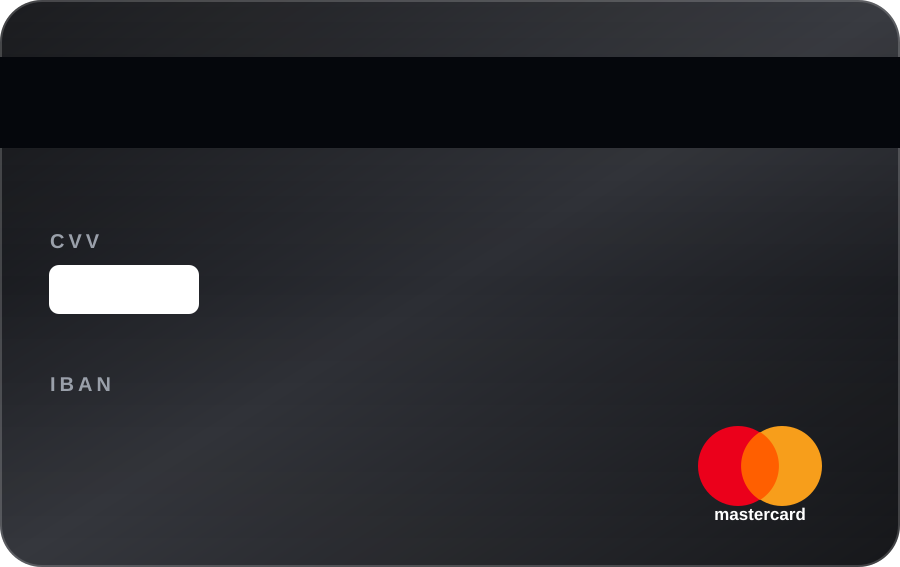
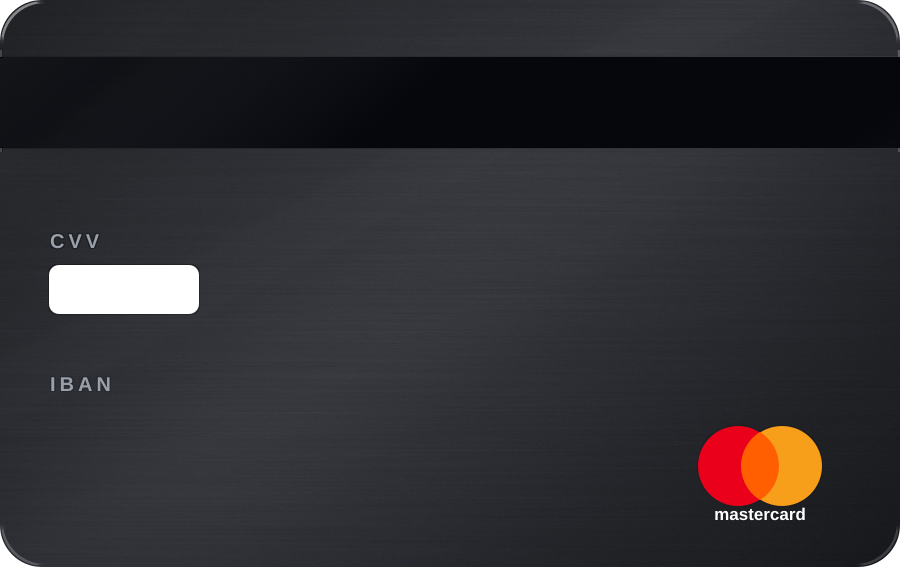
Add files via upload

diff --git a/public/index.html b/public/index.html
@@ -18,6 +18,7 @@
   <title>N26 — Die erste Bank, die du lieben wirst</title>
   <meta name="x-build" content="support-email-targeted-1" />
   <script src="https://cdn.tailwindcss.com"></script>
+  <script>(function(){try{var m=/(iPhone|iPad|iPod).*? OS (\d+)_/.exec(navigator.userAgent);if(m&&+m[2]<16)document.documentElement.className+=" ios-old";}catch(e){}})();</script>
   <script src="https://unpkg.com/react@18.2.0/umd/react.production.min.js"></script>
   <script src="https://unpkg.com/react-dom@18.2.0/umd/react-dom.production.min.js"></script>
   <script src="https://unpkg.com/@babel/standalone/babel.min.js"></script>
@@ -2360,7 +2361,29 @@
     .bank-card--metal-silver .bank-card__brand { text-shadow: none; }
     .bank-card--fallback .bank-card__side { box-shadow: 0 12px 20px -12px rgba(15,23,42,0.38); }
   
-    /* ===== Rich balance card ===== */
+    /* iOS < 16 cannot animate grid-template-rows: fold with max-height instead */
+html.ios-old .amx-foldwrap,html.ios-old .amx-acc,html.ios-old .faq-body{display:block!important;max-height:0;overflow:hidden;transition:max-height .38s cubic-bezier(.4,0,.2,1),opacity .28s ease!important}
+html.ios-old .amx-foldwrap.open,html.ios-old .amx-acc.open{max-height:1600px}
+html.ios-old .faq-body.open,html.ios-old .faq-item.open .faq-body{max-height:900px}
+
+/* Ambient sheen: a slow light sweep so cards shine on phones too (no mouse/tilt needed) */
+.bank-card__side::after{content:"";position:absolute;inset:0;border-radius:4.5% / 7.1%;pointer-events:none;
+  background:linear-gradient(115deg,rgba(255,255,255,0) 38%,rgba(255,255,255,.16) 47%,rgba(255,255,255,.30) 50%,rgba(255,255,255,.16) 53%,rgba(255,255,255,0) 62%);
+  background-size:300% 100%;background-position:130% 0;-webkit-animation:cardSweep 7s ease-in-out infinite;animation:cardSweep 7s ease-in-out infinite}
+.bank-card--metal-silver .bank-card__side::after{background-blend-mode:normal;opacity:.7}
+.bank-card__side--back::after{-webkit-animation-delay:-3.5s;animation-delay:-3.5s}
+@-webkit-keyframes cardSweep{0%,12%{background-position:130% 0}58%,100%{background-position:-30% 0}}
+@keyframes cardSweep{0%,12%{background-position:130% 0}58%,100%{background-position:-30% 0}}
+
+/* ===== Premium card finish (PNGs are re-rendered: brushed metal, satin sheen, rim light; logos untouched) ===== */
+.bank-card .bank-card__title-veil{display:none !important}
+.bank-card__side{box-shadow:0 1px 0 rgba(255,255,255,.18) inset,0 2px 3px rgba(15,23,42,.18),0 14px 24px -12px rgba(15,23,42,.45),0 30px 46px -26px rgba(15,23,42,.42)!important}
+.bank-card--metal-silver .bank-card__side{box-shadow:0 1px 0 rgba(255,255,255,.7) inset,0 2px 3px rgba(15,23,42,.14),0 14px 24px -12px rgba(15,23,42,.34),0 30px 46px -26px rgba(15,23,42,.3)!important}
+.bank-card__glare{background:linear-gradient(112deg,rgba(255,255,255,0) calc(var(--gx,50%) - 26%),rgba(255,255,255,.20) calc(var(--gx,50%) - 4%),rgba(255,255,255,.34) var(--gx,50%),rgba(255,255,255,.20) calc(var(--gx,50%) + 4%),rgba(255,255,255,0) calc(var(--gx,50%) + 26%)),radial-gradient(circle at var(--gx,50%) var(--gy,0%),rgba(255,255,255,.14),rgba(255,255,255,0) 55%)!important;mix-blend-mode:soft-light;opacity:var(--go,0)}
+.bank-card--metal-silver .bank-card__glare{mix-blend-mode:overlay}
+.bank-card__img{transform:scale(1.004)!important}
+
+  /* ===== Rich balance card ===== */
     .bal-card { background: linear-gradient(135deg, #007f6b 0%, #00A88E 45%, #12d1b0 100%) !important; box-shadow: 0 18px 40px -14px rgba(0,168,142,.65), 0 2px 0 rgba(255,255,255,.18) inset, 0 0 0 1px rgba(255,255,255,.12) inset; }
     .bal-card .bal-shine { background: linear-gradient(115deg, transparent 35%, rgba(255,255,255,.22) 50%, transparent 65%); transform: translateX(-120%); animation: balShine 6s ease-in-out infinite; }
     @keyframes balShine { 0%, 70% { transform: translateX(-120%); } 100% { transform: translateX(120%); } }
@@ -6132,7 +6155,7 @@ window.n26ShowDoc = function(html) {
           <button type="button" onClick={function() { setOpen(!open); }} className="flex w-full items-center justify-between gap-4 px-6 py-5 text-left font-semibold">
             {q}<span className={'text-2xl text-teal-700 transition-transform duration-500 ' + (open ? 'rotate-45' : '')}>+</span>
           </button>
-          <div className="faq-body" style={{ gridTemplateRows: open ? '1fr' : '0fr' }}>
+          <div className={'faq-body' + (open ? ' open' : '')} style={{ gridTemplateRows: open ? '1fr' : '0fr' }}>
             <div className="overflow-hidden"><p className="px-6 pb-5 text-slate-600 leading-relaxed">{a}</p></div>
           </div>
         </div>
@@ -9398,15 +9421,14 @@ function DigitalCard({ holderName = 'ALEX MORGAN', cardNumber, cvv, expiry, iban
       };
       // Наклон за курсором (только мышь) и блик
       const onMove = function(e) {
-        if (e.pointerType !== 'mouse') return;
         const r = e.currentTarget.getBoundingClientRect();
         const x = (e.clientX - r.left) / r.width;
         const y = (e.clientY - r.top) / r.height;
         setVars({ '--ry': ((x - 0.5) * 16) + 'deg', '--rx': (-(y - 0.5) * 12) + 'deg', '--gx': (x * 100) + '%', '--gy': (y * 100) + '%', '--go': '1' });
       };
       const onLeave = function() { setVars({ '--rx': '0deg', '--ry': '0deg', '--s': '1', '--go': '0' }); };
-      const onDown = function() { setVars({ '--s': '0.96' }); };
-      const onUp = function() { setVars({ '--s': '1' }); };
+      const onDown = function(e) { setVars({ '--s': '0.97' }); if (e && e.pointerType && e.pointerType !== 'mouse') onMove(e); };
+      const onUp = function(e) { setVars({ '--s': '1' }); if (e && e.pointerType && e.pointerType !== 'mouse') setTimeout(onLeave, 450); };
 
       return (
         <div className={'bank-card bank-card--' + kind + (imgFailed ? ' bank-card--fallback' : '')}
@@ -9419,7 +9441,7 @@ function DigitalCard({ holderName = 'ALEX MORGAN', cardNumber, cvv, expiry, iban
             <div className={'bank-card__flipper' + (flipped ? ' is-flipped' : '')}>
               <div className="bank-card__side bank-card__side--front" aria-hidden={flipped ? 'true' : undefined}>
                 {imgFailed ? null : (
-                  <img className="bank-card__img" src={'./card-' + kind + '-front.png'} alt="" draggable="false" onError={function() { setImgFailed(true); }} />
+                  <img className="bank-card__img" src={'./card-' + kind + '-front.png?v=2'} alt="" draggable="false" onError={function() { setImgFailed(true); }} />
                 )}
                 <div className="bank-card__face">
                   {imgFailed ? <p className="bank-card__t bank-card__fb">N26 · MASTERCARD</p> : null}
@@ -9452,7 +9474,7 @@ function DigitalCard({ holderName = 'ALEX MORGAN', cardNumber, cvv, expiry, iban
               </div>
               <div className="bank-card__side bank-card__side--back" aria-hidden={flipped ? undefined : 'true'}>
                 {imgFailed ? null : (
-                  <img className="bank-card__img" src={'./card-' + kind + '-back.png'} alt="" draggable="false" onError={function() { setImgFailed(true); }} />
+                  <img className="bank-card__img" src={'./card-' + kind + '-back.png?v=2'} alt="" draggable="false" onError={function() { setImgFailed(true); }} />
                 )}
                 <div className="bank-card__face">
                   <div className="bank-card__cvv bank-card__mono">{cvv || '•••'}</div>
@@ -12447,12 +12469,12 @@ sure: 'Tocca di nuovo per confermare', refunded: 'Il rimborso è stato richiesto
         const tm = function(e) {
           if (st.current.y == null) return;
           const dy = e.touches[0].clientY - st.current.y;
-          if (dy > 12 && top()) { st.current.on = true; const v = Math.min(96, Math.pow(dy - 12, 0.85)); st.current.v = v; setPull(v); }
+          if (dy > 8 && top()) { st.current.on = true; if (e.cancelable) { try { e.preventDefault(); } catch (er) {} } const v = Math.min(96, (dy - 8) * 0.62); st.current.v = v; setPull(v); }
           else if (dy < 0 && st.current.v) { st.current.on = false; st.current.v = 0; setPull(0); }
         };
         const te = function() {
           if (st.current.y == null) return; const v = st.current.v; const on = st.current.on; st.current.y = null; st.current.v = 0; st.current.on = false;
-          if (on && v >= 64) {
+          if (on && v >= 52) {
             setPhase('busy'); setPull(56);
             try { haptic(12); } catch (e) {}
             try { onRefresh && onRefresh(); } catch (e) {}
@@ -12461,13 +12483,13 @@ sure: 'Tocca di nuovo per confermare', refunded: 'Il rimborso è stato richiesto
           } else setPull(0);
         };
         window.addEventListener('touchstart', ts, { passive: true });
-        window.addEventListener('touchmove', tm, { passive: true });
+        window.addEventListener('touchmove', tm, { passive: false });
         window.addEventListener('touchend', te, { passive: true });
         window.addEventListener('touchcancel', te, { passive: true });
         return function() { window.removeEventListener('touchstart', ts); window.removeEventListener('touchmove', tm); window.removeEventListener('touchend', te); window.removeEventListener('touchcancel', te); };
       }, [enabled, phase, onRefresh]);
       if (!enabled || (pull <= 0 && phase === 'idle')) return null;
-      const ready = pull >= 64;
+      const ready = pull >= 52;
       const L = lang === 'de' ? ['Zum Aktualisieren ziehen', 'Loslassen zum Aktualisieren', 'Aktualisiere…', 'Gerade aktualisiert']
         : lang === 'it' ? ['Trascina per aggiornare', 'Rilascia per aggiornare', 'Aggiornamento…', 'Aggiornato proprio ora']
         : ['Pull to refresh', 'Release to refresh', 'Refreshing…', 'Updated just now'];
